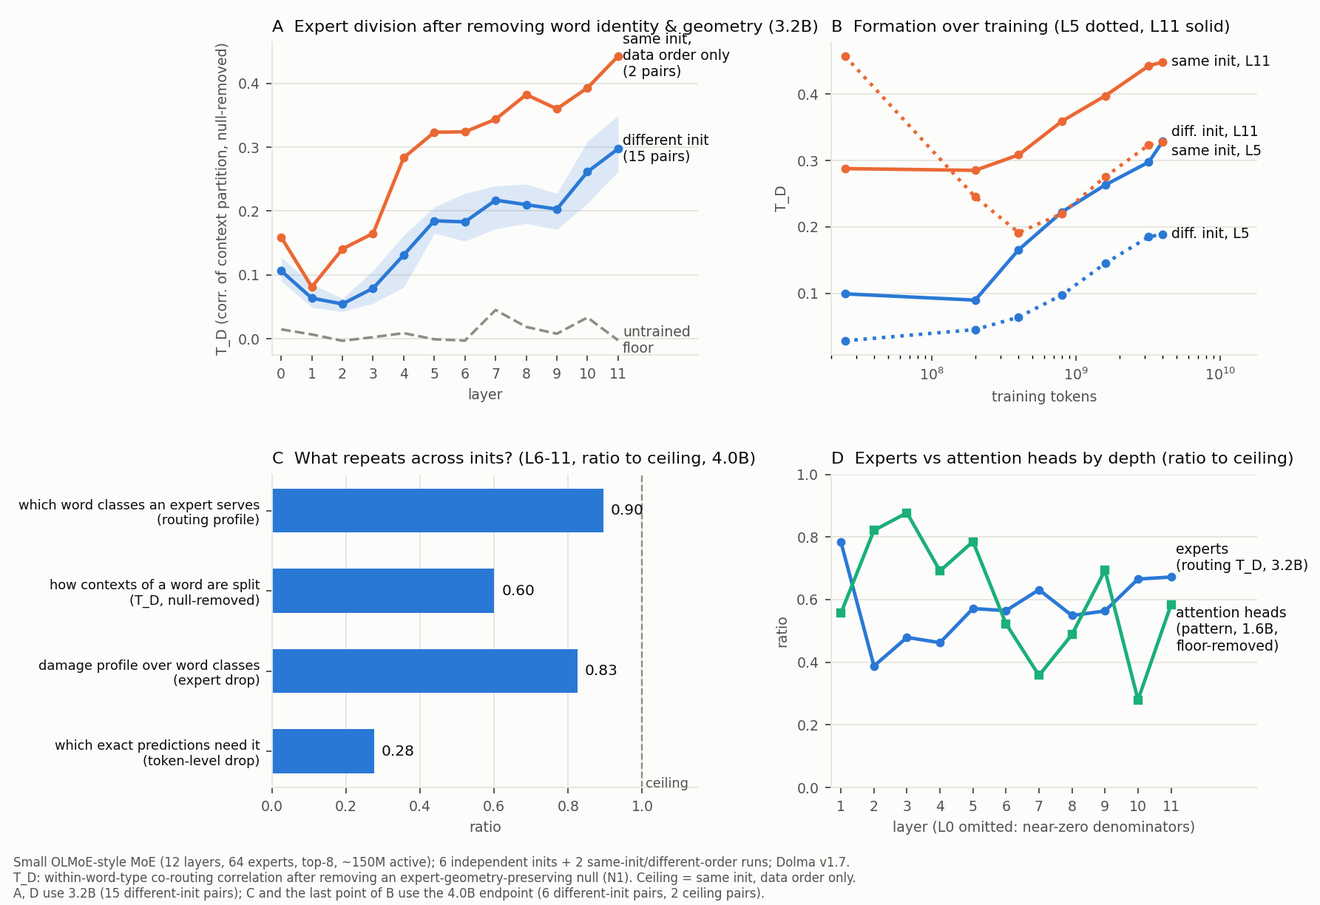
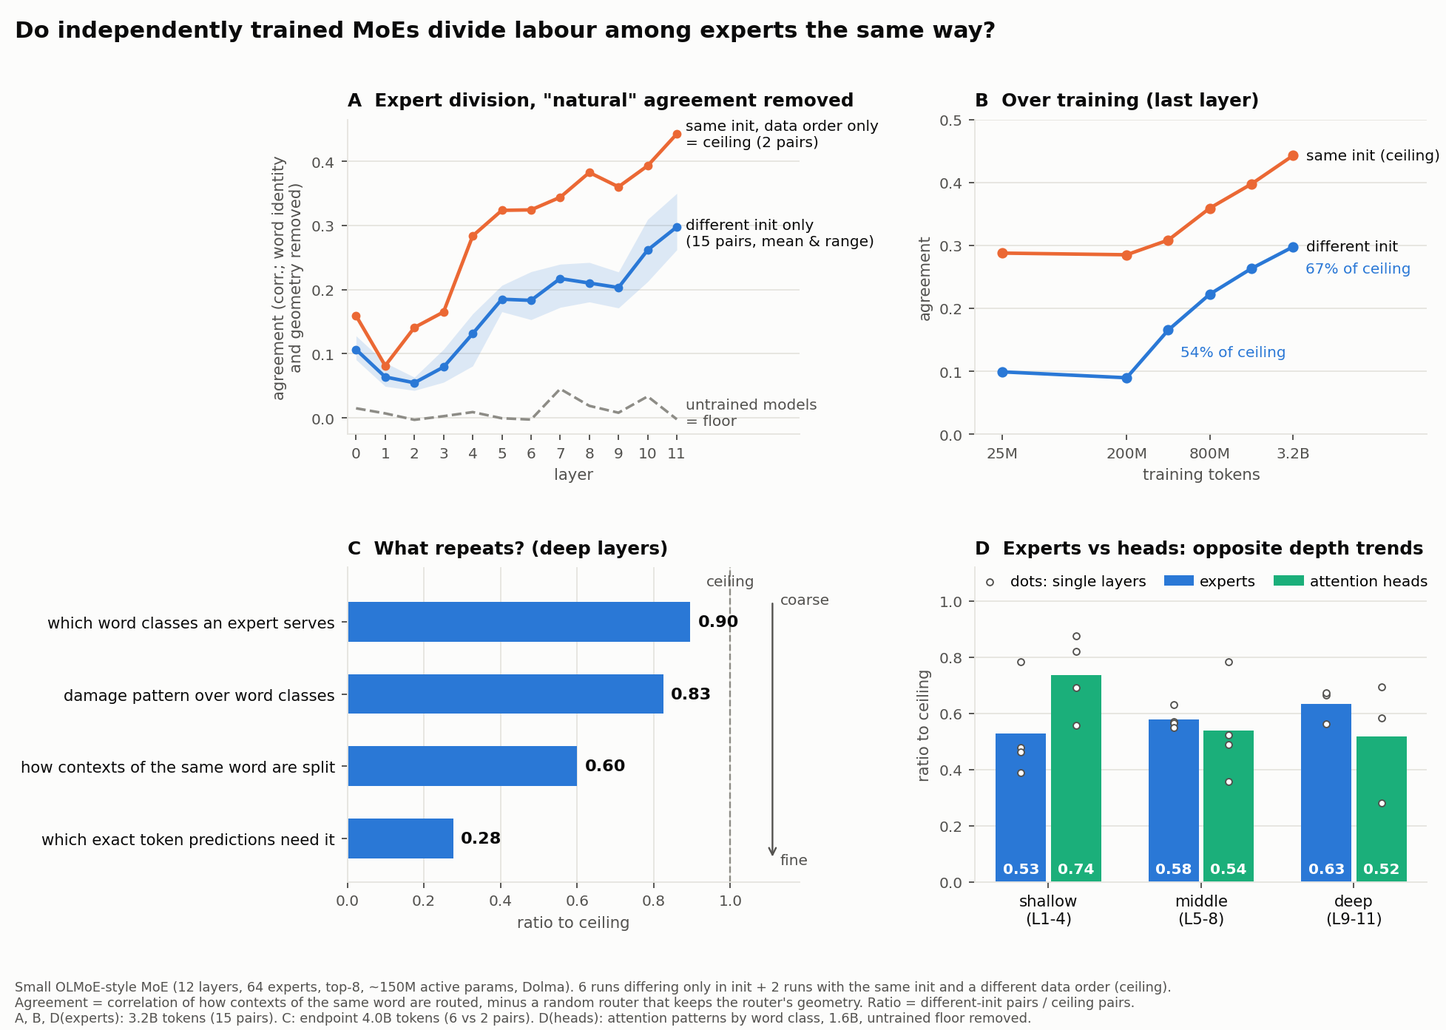
重画初步结果图使其更易读（总标题、白话标注、图B只留最终层、图C由粗到细、图D按浅中深分组），新增日文版；Slack文稿与图对齐

diff --git a/workbench/mechanism-population-dynamics/division/scripts/prelim_figure.py b/workbench/mechanism-population-dynamics/division/scripts/prelim_figure.py
@@ -3,12 +3,16 @@
 
 A  expert division beyond token identity and geometry (T_D) by layer at 3.2B tokens:
    only-init pairs (mean, min-max band), only-order pairs (ceiling), untrained floor
-B  formation: T_D of L5 and L11 over training tokens, only-init vs only-order
-C  resolution hierarchy (deep layers L6-L11): only-init / only-order ratio for four readouts
-D  depth profile: experts (routing T_D ratio, 3.2B) vs attention heads (attention-pattern
-   fingerprint excess over the untrained floor, ratio, 1.6B)
+B  formation: T_D of the last layer over training, only-init vs only-order (3.2B and earlier, 15 pairs)
+C  resolution hierarchy (deep layers L6-L11, endpoint): only-init / only-order ratio for four readouts,
+   ordered coarse to fine
+D  depth profile: experts (routing T_D ratio, 3.2B) vs attention heads (attention-pattern fingerprint
+   excess over the untrained floor, ratio, 1.6B), grouped into shallow / middle / deep layers
+
+Usage: prelim_figure.py [en|ja]   (default: both)
 """
 import json
+import sys
 from pathlib import Path
 
 import matplotlib
@@ -17,10 +21,62 @@ import matplotlib.pyplot as plt
 import numpy as np
 
 R = Path(__file__).resolve().parents[1] / "results"
-OUT = R / "e167" / "prelim_figure.png"
 BLUE, ORANGE, AQUA, GRAY = "#2a78d6", "#eb6834", "#1baf7a", "#8d8c86"
 INK, INK2, GRID, SURF = "#0b0b0b", "#52514e", "#e6e5e0", "#fcfcfb"
 DEEP = list(range(6, 12))
+BANDS = [(1, 4), (5, 8), (9, 11)]
+L = np.arange(12)
+
+TXT = {
+    "en": dict(
+        out="prelim_figure.png", font=None,
+        sup="Do independently trained MoEs divide labour among experts the same way?",
+        A="A  Expert division, \"natural\" agreement removed",
+        A_y="agreement (corr.; word identity\nand geometry removed)", A_x="layer",
+        A_init="different init only\n({n} pairs, mean & range)", A_order="same init, data order only\n= ceiling ({n} pairs)",
+        A_floor="untrained models\n= floor",
+        B="B  Over training (last layer)", B_x="training tokens", B_y="agreement",
+        B_init="different init", B_order="same init (ceiling)", B_ratio="{p:.0%} of ceiling",
+        ticks=["25M", "200M", "800M", "3.2B"],
+        C="C  What repeats? (deep layers)",
+        C_items=["which word classes an expert serves", "damage pattern over word classes",
+                 "how contexts of the same word are split", "which exact token predictions need it"],
+        C_coarse="coarse", C_fine="fine", C_ceiling="ceiling", C_x="ratio to ceiling",
+        D="D  Experts vs heads: opposite depth trends", D_y="ratio to ceiling",
+        D_bands=["shallow\n(L1-4)", "middle\n(L5-8)", "deep\n(L9-11)"], D_exp="experts", D_head="attention heads",
+        D_dots="dots: single layers",
+        foot=("Small OLMoE-style MoE (12 layers, 64 experts, top-8, ~150M active params, Dolma). 6 runs differing only in init "
+              "+ 2 runs with the same init and a different data order (ceiling).\n"
+              "Agreement = correlation of how contexts of the same word are routed, minus a random router that keeps the "
+              "router's geometry. Ratio = different-init pairs / ceiling pairs.\n"
+              "A, B, D(experts): 3.2B tokens (15 pairs). C: endpoint 4.0B tokens (6 vs 2 pairs). D(heads): attention patterns "
+              "by word class, 1.6B, untrained floor removed."),
+    ),
+    "ja": dict(
+        out="prelim_figure_ja.png", font="Noto Sans CJK JP",
+        sup="独立に学習した MoE は、エキスパートの役割を同じように分けるか",
+        A="A  「当たり前の一致」を除いた分担の一致（層ごと）",
+        A_y="一致度（相関；単語の同一性と\n隠れ状態の幾何による分を除去）", A_x="層",
+        A_init="初期化だけ違う\n（{n} ペア, 平均と範囲）", A_order="データ順だけ違う\n= 上限の目安（{n} ペア）",
+        A_floor="未学習モデル同士\n= 下限",
+        B="B  学習中の推移（最終層）", B_x="学習トークン数", B_y="一致度",
+        B_init="初期化だけ違う", B_order="データ順だけ違う（上限）", B_ratio="上限の {p:.0%}",
+        ticks=["2500万", "2億", "8億", "32億"],
+        C="C  何が再現されるか（深い層, 上限比）",
+        C_items=["どの品詞を担当するか", "品詞ごとの損傷パターン",
+                 "同じ単語の文脈をどう分けるか", "どの具体的なトークンの予測で必要か"],
+        C_coarse="粗い", C_fine="細かい", C_ceiling="上限", C_x="上限比",
+        D="D  エキスパートとヘッド：深さで逆の傾向", D_y="上限比",
+        D_bands=["浅い層\n(1–4)", "中間層\n(5–8)", "深い層\n(9–11)"], D_exp="エキスパート", D_head="注意ヘッド",
+        D_dots="点：各層の値",
+        foot=("小型 OLMoE 型 MoE（12 層・各層 64 エキスパート・top-8・アクティブ約 1.5 億パラメータ, Dolma）。"
+              "初期化だけ違う 6 本 ＋ 同じ初期化でデータ順だけ違う 2 本（上限の目安）。\n"
+              "一致度 = 同じ単語の文脈ごとの振り分けの相関から、ルーターの幾何を保ったランダムなルーターの分を差し引いたもの。"
+              "上限比 = 初期化だけ違うペア ÷ データ順だけ違うペア。\n"
+              "A・B・D（エキスパート）：32 億トークン（15 ペア）。C：終点 40 億トークン（6 ペア対 2 ペア）。"
+              "D（ヘッド）：品詞ごとの注意パターン, 16 億トークン, 未学習の分を除去。"),
+    ),
+}
 
 
 def j(p):
@@ -28,9 +84,8 @@ def j(p):
 
 
 def pairs(path, tok, kind):
-    d = j(path)["results"]
     out = []
-    for r in d:
+    for r in j(path)["results"]:
         a, b = r["A"].split("__")[0], r["B"].split("__")[0]
         if r.get("tokens_A", tok) != tok:
             continue
@@ -48,109 +103,138 @@ def style(ax, title):
         ax.spines[s].set_visible(False)
     for s in ("left", "bottom"):
         ax.spines[s].set_color(GRID)
-    ax.tick_params(colors=INK2, labelsize=8)
+    ax.tick_params(colors=INK2, labelsize=8.5)
     ax.grid(axis="y", color=GRID, lw=0.8)
     ax.set_axisbelow(True)
-    ax.set_title(title, loc="left", fontsize=9.5, color=INK, pad=6)
+    ax.set_title(title, loc="left", fontsize=10.5, color=INK, pad=8, fontweight="bold")
 
 
-fig, axs = plt.subplots(2, 2, figsize=(10.5, 7.2), facecolor=SURF)
-L = np.arange(12)
-
-# A
-ax = axs[0, 0]
-style(ax, "A  Expert division after removing word identity & geometry (3.2B)")
+# ---- data (language independent) ----
 ini = pairs("e167/routing_3200000000.json", 3200000000, "init")
 odr = pairs("e167/routing_3200000000.json", 3200000000, "order")
 I = np.array([[l["T_D"] for l in r["layers"]] for r in ini])
 O = np.array([[l["T_D"] for l in r["layers"]] for r in odr])
 F = np.array([l["T_D"] for l in [r for r in j("e167/routing_3200000000.json")["results"] if r["tokens_A"] == 0][0]["layers"]])
-ax.fill_between(L, I.min(0), I.max(0), color=BLUE, alpha=0.15, lw=0)
-ax.plot(L, I.mean(0), color=BLUE, lw=2, marker="o", ms=4)
-ax.plot(L, O.mean(0), color=ORANGE, lw=2, marker="o", ms=4)
-ax.plot(L, F, color=GRAY, lw=1.5, ls="--")
-ax.text(11.15, I.mean(0)[-1], f"different init\n({len(ini)} pairs)", color=INK, fontsize=8, va="center")
-ax.text(11.15, O.mean(0)[-1], f"same init,\ndata order only\n({len(odr)} pairs)", color=INK, fontsize=8, va="center")
-ax.text(11.15, F[-1], "untrained\nfloor", color=INK2, fontsize=8, va="center")
-ax.set_xlim(-0.3, 13.6)
-ax.set_xticks(L)
-ax.set_xlabel("layer", fontsize=8, color=INK2)
-ax.set_ylabel("T_D (corr. of context partition, null-removed)", fontsize=8, color=INK2)
 
-# B
-ax = axs[0, 1]
-style(ax, "B  Formation over training (L5 dotted, L11 solid)")
-toks = [25e6, 200e6, 400e6, 800e6, 1.6e9, 3.2e9, 3999793152]
-for layer, ls in ((11, "-"), (5, ":")):
-    vi, vo = [], []
-    for t in toks:
-        s = j(f"e167/routing_summary_{int(t)}.json")
-        vi.append(s["init"]["T_D"][layer])
-        vo.append(s["order"]["T_D"][layer])
-    ax.plot(toks, vi, color=BLUE, lw=2, ls=ls, marker="o", ms=4)
-    ax.plot(toks, vo, color=ORANGE, lw=2, ls=ls, marker="o", ms=4)
-    nudge = 0.014 if layer == 11 else -0.014  # L11 different-init and L5 same-init end at the same height
-    ax.text(4.6e9, vi[-1] + (nudge if layer == 11 else 0), f"diff. init, L{layer}", color=INK, fontsize=8, va="center")
-    ax.text(4.6e9, vo[-1] + (nudge if layer == 5 else 0), f"same init, L{layer}", color=INK, fontsize=8, va="center")
-ax.set_xscale("log")
-ax.set_xlim(2e7, 1.8e10)
-ax.set_xlabel("training tokens", fontsize=8, color=INK2)
-ax.set_ylabel("T_D", fontsize=8, color=INK2)
+toks = [25e6, 200e6, 400e6, 800e6, 1.6e9, 3.2e9]
+B_i = [j(f"e167/routing_summary_{int(t)}.json")["init"]["T_D"][11] for t in toks]
+B_o = [j(f"e167/routing_summary_{int(t)}.json")["order"]["T_D"][11] for t in toks]
 
-# C
-ax = axs[1, 0]
-style(ax, "C  What repeats across inits? (L6-11, ratio to ceiling, 4.0B)")
 rs = j("e167/functional_route_summary_3999793152.json")
 dr = j("e167/functional_drop_summary_3999793152.json")
-td = j("e167/routing_summary_3200000000.json")
 tdf = j("e167/routing_summary_3999793152.json")
 tk = j("e168/token_roles_final.json")["results"]
 tk_o = [r for r in tk if r["A"][:2] == r["B"][:2]]
 tk_i = [r for r in tk if r["A"][:2] != r["B"][:2] and r["A"][2:4] == "D0" and r["B"][2:4] == "D0"]
 lay = lambda r: {x["layer"]: x["matched"] for x in r["layers"]}
-tk_ratio = np.mean([np.mean([lay(r)[l] for r in tk_i]) / np.mean([lay(r)[l] for r in tk_o]) for l in DEEP])
-items = [
-    ("which word classes an expert serves\n(routing profile)", np.mean([rs["init"]["matched"][l] / rs["order"]["matched"][l] for l in DEEP])),
-    ("how contexts of a word are split\n(T_D, null-removed)", np.mean([tdf["init"]["T_D"][l] / tdf["order"]["T_D"][l] for l in DEEP])),
-    ("damage profile over word classes\n(expert drop)", np.mean([dr["init"]["matched"][l] / dr["order"]["matched"][l] for l in DEEP])),
-    (f"which exact predictions need it\n(token-level drop)", tk_ratio),
+deep_ratio = lambda s, key: np.mean([s["init"][key][l] / s["order"][key][l] for l in DEEP])
+C_vals = [
+    deep_ratio(rs, "matched"),
+    deep_ratio(dr, "matched"),
+    deep_ratio(tdf, "T_D"),
+    np.mean([np.mean([lay(r)[l] for r in tk_i]) / np.mean([lay(r)[l] for r in tk_o]) for l in DEEP]),
 ]
-y = np.arange(len(items))[::-1]
-ax.barh(y, [v for _, v in items], color=BLUE, height=0.55)
-for yi, (lab, v) in zip(y, items):
-    ax.text(v + 0.02, yi, f"{v:.2f}", va="center", fontsize=8.5, color=INK)
-ax.set_yticks(y)
-ax.set_yticklabels([lab for lab, _ in items], fontsize=7.5, color=INK)
-ax.set_xlim(0, 1.15)
-ax.axvline(1.0, color=GRAY, lw=1, ls="--")
-ax.text(1.01, y[-1] - 0.45, "ceiling", fontsize=7.5, color=INK2, ha="left")
-ax.grid(axis="y", visible=False)
-ax.grid(axis="x", color=GRID, lw=0.8)
-ax.set_xlabel("ratio", fontsize=8, color=INK2)
 
-# D
-ax = axs[1, 1]
-style(ax, "D  Experts vs attention heads by depth (ratio to ceiling)")
-exp_ratio = [td["init"]["T_D"][l] / td["order"]["T_D"][l] for l in L]
+td = j("e167/routing_summary_3200000000.json")
+exp_ratio = np.array([td["init"]["T_D"][l] / td["order"]["T_D"][l] for l in L])
 hs = j("e167/functional_hattn_summary_1600000000.json")
 floor = [x["matched"] for x in j("e167/functional_hattn_floor_t0.json")["results"][0]["layers"]]
-h_ratio = [(hs["init"]["matched"][l] - floor[l]) / (hs["order"]["matched"][l] - floor[l]) for l in L]
-ax.plot(L[1:], exp_ratio[1:], color=BLUE, lw=2, marker="o", ms=4)
-ax.plot(L[1:], h_ratio[1:], color=AQUA, lw=2, marker="s", ms=4)
-ax.text(11.15, exp_ratio[-1] + 0.06, "experts\n(routing T_D, 3.2B)", color=INK, fontsize=8, va="center")
-ax.text(11.15, h_ratio[-1] - 0.08, "attention heads\n(pattern, 1.6B,\nfloor-removed)", color=INK, fontsize=8, va="center")
-ax.set_xlim(0.7, 13.6)
-ax.set_ylim(0, 1.0)
-ax.set_xticks(L[1:])
-ax.set_xlabel("layer (L0 omitted: near-zero denominators)", fontsize=8, color=INK2)
-ax.set_ylabel("ratio", fontsize=8, color=INK2)
+h_ratio = np.array([(hs["init"]["matched"][l] - floor[l]) / (hs["order"]["matched"][l] - floor[l]) for l in L])
 
-fig.text(0.01, 0.008, "Small OLMoE-style MoE (12 layers, 64 experts, top-8, ~150M active); 6 independent inits + 2 same-init/different-order runs; Dolma v1.7.\n"
-         "T_D: within-word-type co-routing correlation after removing an expert-geometry-preserving null (N1). Ceiling = same init, data order only.\n"
-         "A, D use 3.2B (15 different-init pairs); C and the last point of B use the 4.0B endpoint (6 different-init pairs, 2 ceiling pairs).",
-         fontsize=7, color=INK2)
-fig.tight_layout(rect=(0, 0.06, 1, 1), h_pad=2.5, w_pad=3)
-fig.savefig(OUT, dpi=170, facecolor=SURF)
-print(OUT)
-print({lab.split("\n")[0]: round(float(v), 3) for lab, v in items})
-print("expert ratio", [round(x, 2) for x in exp_ratio], "head ratio", [round(x, 2) for x in h_ratio])
+
+def draw(lang):
+    t = TXT[lang]
+    if t["font"]:
+        plt.rcParams["font.family"] = [t["font"], "DejaVu Sans"]
+    fig, axs = plt.subplots(2, 2, figsize=(11.5, 8.2), facecolor=SURF)
+    fig.suptitle(t["sup"], x=0.01, ha="left", fontsize=13, color=INK, fontweight="bold")
+
+    # A
+    ax = axs[0, 0]
+    style(ax, t["A"])
+    ax.fill_between(L, I.min(0), I.max(0), color=BLUE, alpha=0.15, lw=0)
+    ax.plot(L, I.mean(0), color=BLUE, lw=2, marker="o", ms=4)
+    ax.plot(L, O.mean(0), color=ORANGE, lw=2, marker="o", ms=4)
+    ax.plot(L, F, color=GRAY, lw=1.5, ls="--")
+    ax.text(11.3, O.mean(0)[-1], t["A_order"].format(n=len(odr)), color=INK, fontsize=8.5, va="center")
+    ax.text(11.3, I.mean(0)[-1] - 0.01, t["A_init"].format(n=len(ini)), color=INK, fontsize=8.5, va="center")
+    ax.text(11.3, F[-1] + 0.01, t["A_floor"], color=INK2, fontsize=8.5, va="center")
+    ax.set_xlim(-0.3, 15.2)
+    ax.set_xticks(L)
+    ax.set_xlabel(t["A_x"], fontsize=9, color=INK2)
+    ax.set_ylabel(t["A_y"], fontsize=9, color=INK2)
+
+    # B
+    ax = axs[0, 1]
+    style(ax, t["B"])
+    ax.plot(toks, B_o, color=ORANGE, lw=2, marker="o", ms=5)
+    ax.plot(toks, B_i, color=BLUE, lw=2, marker="o", ms=5)
+    ax.text(toks[-1] * 1.25, B_o[-1], t["B_order"], color=INK, fontsize=8.5, va="center")
+    ax.text(toks[-1] * 1.25, B_i[-1], t["B_init"], color=INK, fontsize=8.5, va="center")
+    for k in (2, 5):  # 400M and 3.2B
+        ax.annotate(t["B_ratio"].format(p=B_i[k] / B_o[k]), (toks[k], B_i[k]), xytext=(7, -15),
+                    textcoords="offset points", ha="left", fontsize=8.5, color=BLUE)
+    ax.set_xscale("log")
+    ax.set_xlim(1.6e7, 3.0e10)
+    ax.set_ylim(0, 0.5)
+    ax.set_xticks([25e6, 200e6, 800e6, 3.2e9])
+    ax.set_xticklabels(t["ticks"])
+    ax.minorticks_off()
+    ax.set_xlabel(t["B_x"], fontsize=9, color=INK2)
+    ax.set_ylabel(t["B_y"], fontsize=9, color=INK2)
+
+    # C
+    ax = axs[1, 0]
+    style(ax, t["C"])
+    y = np.arange(4)[::-1]
+    ax.barh(y, C_vals, color=BLUE, height=0.55)
+    for yi, v in zip(y, C_vals):
+        ax.text(v + 0.02, yi, f"{v:.2f}", va="center", fontsize=9.5, color=INK, fontweight="bold")
+    ax.set_yticks(y)
+    ax.set_yticklabels(t["C_items"], fontsize=9, color=INK)
+    ax.set_xlim(0, 1.18)
+    ax.set_ylim(-0.6, 3.75)
+    ax.axvline(1.0, color=GRAY, lw=1, ls="--")
+    ax.text(1.0, 3.5, t["C_ceiling"], fontsize=8.5, color=INK2, ha="center")
+    ax.annotate("", xy=(1.11, -0.3), xytext=(1.11, 3.3), arrowprops=dict(arrowstyle="->", color=INK2, lw=1))
+    ax.text(1.13, 3.3, t["C_coarse"], fontsize=8.5, color=INK2, va="center")
+    ax.text(1.13, -0.3, t["C_fine"], fontsize=8.5, color=INK2, va="center")
+    ax.grid(axis="y", visible=False)
+    ax.grid(axis="x", color=GRID, lw=0.8)
+    ax.set_xlabel(t["C_x"], fontsize=9, color=INK2)
+
+    # D
+    ax = axs[1, 1]
+    style(ax, t["D"])
+    x = np.arange(len(BANDS))
+    w = 0.36
+    for off, vals, col, lab in ((-w / 2, exp_ratio, BLUE, t["D_exp"]), (w / 2, h_ratio, AQUA, t["D_head"])):
+        means = [vals[a:b + 1].mean() for a, b in BANDS]
+        ax.bar(x + off, means, width=w - 0.03, color=col, label=lab)
+        for xi, (a, b) in zip(x, BANDS):
+            pts = vals[a:b + 1]
+            ax.scatter(np.full(len(pts), xi + off), pts, s=14, color="white", edgecolor=INK2, lw=0.8, zorder=3)
+        for xi, m in zip(x, means):
+            ax.text(xi + off, 0.02, f"{m:.2f}", ha="center", va="bottom", fontsize=8.5, color="white", fontweight="bold")
+    ax.set_xticks(x)
+    ax.set_xticklabels(t["D_bands"], fontsize=9, color=INK)
+    ax.scatter([], [], s=14, color="white", edgecolor=INK2, lw=0.8, label=t["D_dots"])
+    ax.set_ylim(0, 1.12)
+    ax.set_yticks(np.arange(0, 1.01, 0.2))
+    ax.set_ylabel(t["D_y"], fontsize=9, color=INK2)
+    ax.legend(loc="upper center", fontsize=8.5, frameon=False, ncol=3, handletextpad=0.4, columnspacing=1.2,
+              bbox_to_anchor=(0.5, 1.02))
+
+    fig.text(0.01, 0.008, t["foot"], fontsize=7.5, color=INK2)
+    fig.tight_layout(rect=(0, 0.075, 1, 0.97), h_pad=3, w_pad=3)
+    out = R / "e167" / t["out"]
+    fig.savefig(out, dpi=170, facecolor=SURF)
+    plt.close(fig)
+    print(out)
+
+
+for lang in (sys.argv[1:] or ["en", "ja"]):
+    draw(lang)
+print({k: round(float(v), 3) for k, v in zip(TXT["en"]["C_items"], C_vals)})
+print("bands experts", [round(exp_ratio[a:b + 1].mean(), 2) for a, b in BANDS],
+      "heads", [round(h_ratio[a:b + 1].mean(), 2) for a, b in BANDS])

diff --git a/workbench/mechanism-population-dynamics/division/SLACK_TO_SASANO_2026-11-02.md b/workbench/mechanism-population-dynamics/division/SLACK_TO_SASANO_2026-11-02.md
@@ -1,6 +1,6 @@
 笹野さん
 
-お疲れさまです。10月のミーティングでいただいた「MoE のエキスパートの役割分担は、別々に学習しても自発的に一致するのか」という問いについて、予備的な結果が出ましたので共有させてください。図を 1 枚添付します。
+お疲れさまです。10月のミーティングでいただいた「MoE のエキスパートの役割分担は、別々に学習しても自発的に一致するのか」という問いについて、予備的な結果が出ましたので共有させてください。図を 1 枚添付します（「上限」＝同じ初期化でデータ順だけ変えたモデル同士の一致です）。
 
 *1. いただいた問いと方向*
 • MoE では「このように分けなさい」と指示しなくても、エキスパートの役割分担が自動的に学習される。
@@ -25,16 +25,16 @@
 • 下限として未学習モデル同士も同じように測りました。また、ヘッドも同じ物差し（品詞ごとの注意パターン）で比べました。
 
 *4. 結果*
-① *生の一致の大半は自然なものでした。* 未学習モデル同士でも、ルーティングの一致は第 0 層で .68、深い層で約 .32 あり、ヌルを差し引くとほぼ 0 になります。生の一致だけを見ると「当たり前の一致」を発見と取り違えることになり、ご指摘のベースライン問題は実際に大きいと思います。
-② *差し引いた後でも、深い層では分担が再現されました。* 最終層で、初期化だけ違うペアの一致は .30 でした（15 ペアすべてが .26〜.35）。データ順だけ違うペアは .44 なので、上限の約 2/3 です。深い層の平均でも約 6 割でした。
-③ *初期化が効くのは学習の序盤だけです。* 学習開始直後は、同じ初期化なら浅い層の分担がほぼ同じ（.85）ですが、学習が進むと薄れていきます。初期化が違うモデル間の一致は上がり続け、16 億トークンあたりから横ばいになりました。
-④ *再現されるのは粗い「分け方」で、具体的な「働き方」ではありません。* 深い層の上限比は次のとおりです。
+① *生の一致の大半は自然なものでした。* 未学習モデル同士でも、ルーティングの一致は第 0 層で .68、深い層で約 .32 あり、ヌルを差し引くとほぼ 0 になります。生の一致だけを見ると「当たり前の一致」を発見と取り違えることになり、ご指摘のベースライン問題は実際に大きいと思います（図 A の点線）。
+② *差し引いた後でも、深い層では分担が再現されました。* 最終層で、初期化だけ違うペアの一致は .30 でした（15 ペアすべてが .26〜.35）。データ順だけ違うペアは .44 なので、上限の約 2/3 です。深い層の平均でも約 6 割でした（図 A）。
+③ *初期化が効くのは学習の序盤だけです。* 学習開始直後は、同じ初期化なら浅い層の分担がほぼ同じ（.85）ですが、学習が進むと薄れていきます。初期化が違うモデル間の一致は上がり続け、16 億トークンあたりから横ばいになりました（図 B）。
+④ *再現されるのは粗い「分け方」で、具体的な「働き方」ではありません。* 深い層の上限比は次のとおりです（図 C）。
   ◦ どの品詞を担当するか：.90
   ◦ 同じ単語の文脈をどう分けるか：.60
   ◦ 品詞ごとの損傷パターン：.83
   ◦ どの具体的なトークンの予測で必要とされるか：.28（ランダムよりは明らかに高い）
   また、線形写像でエキスパート層を別のモデルに移植しようとしましたが、同じ初期化のモデル同士でもうまくつながりませんでした。
-⑤ *ヘッドはエキスパートと逆の傾向でした。* ヘッドは浅い〜中間層（2〜5 層）で再現性が高く（上限比 .7〜.9）、エキスパートは深い層ほど再現性が高くなりました。
+⑤ *ヘッドはエキスパートと逆の傾向でした。* 層を浅い・中間・深いに分けると、ヘッドの上限比は .74 → .54 → .52 と下がり、エキスパートは .53 → .58 → .63 と上がります（図 D）。
 
 *一言でまとめると*、「番号が変わっても同じようなエキスパートができるか」には、「深い層では上限の約 2/3 まで yes。ただし一致するのは『どの種類の入力を担当するか』という粗い分け方で、細かい計算の実装は 3 割程度」という答えになりそうです。
 

diff --git a/workbench/mechanism-population-dynamics/division/PRELIM_FINDINGS.md b/workbench/mechanism-population-dynamics/division/PRELIM_FINDINGS.md
@@ -4,6 +4,8 @@
 
 ![初步结果](results/e167/prelim_figure.png)
 
+日文版图：`results/e167/prelim_figure_ja.png`
+
 ## 一句话
 **会，但要看“分工”指什么。** 扣掉“没学习也会有的自然一致”之后，独立初始化的模型在深层重现了约 2/3 的分工（以同初始化、只换数据顺序为天花板）；重现的是“哪类输入归哪个专家”，而不是“专家具体在哪些预测上被需要”。注意力头的深度规律和专家正好相反。
 
@@ -25,7 +27,7 @@
    - **禁用专家后具体哪些 token 的预测变差 .28**（绝对相关只有 .01–.12，但仍是随机配对上限的约 2–6 倍，且越深越高；两个天花板对彼此逐层相差 ≤ .03，分别相对它们的比例是 .276 / .278）
 
    另外，用线性映射把一个模型的整层专家接进另一个模型（模型拼接），连同初始化的模型都接不上——分工的“划分”可以对应，内部表示和计算实现并不相同。
-5. **专家和头的深度规律相反。** 头（按词类的注意力模式，扣掉未训练地板）在第 2–5 层最可重现（.7–.9），induction 头所在的第 6–7 层和最深层较弱；专家则越深越可重现。（图 D）
+5. **专家和头的深度规律相反。** 头（按词类的注意力模式，扣掉未训练地板）在第 2–5 层最可重现（.7–.9），induction 头所在的第 6–7 层和最深层较弱；专家则越深越可重现。按浅（1–4）/中（5–8）/深（9–11）分组，头 .74 → .54 → .52，专家 .53 → .58 → .63。（图 D）
 
 ## 为什么值得研究（对照“结果是不是理所当然”）
 - 不是“当然一致”：原始一致里的大部分是自然的（第 1 条），扣掉之后仍然剩下的那部分才是学习选出来的分工；而且在不同分辨率上答案截然不同（第 4 条），头和专家方向相反（第 5 条）——这些都不是事先能猜到的。
